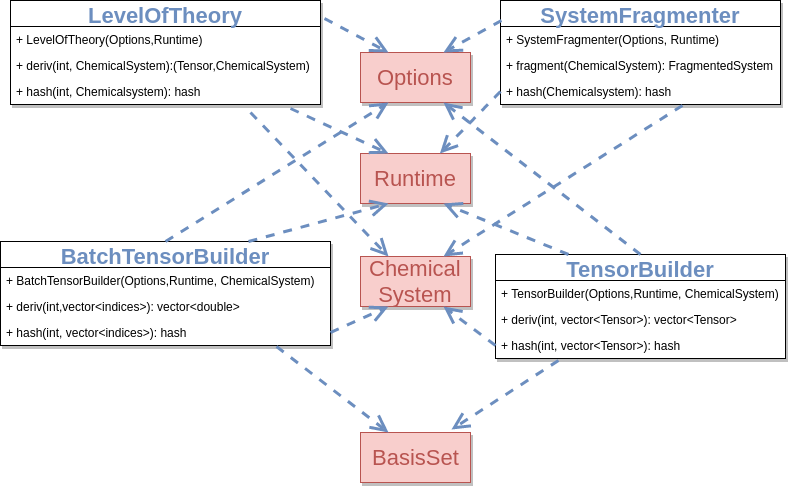
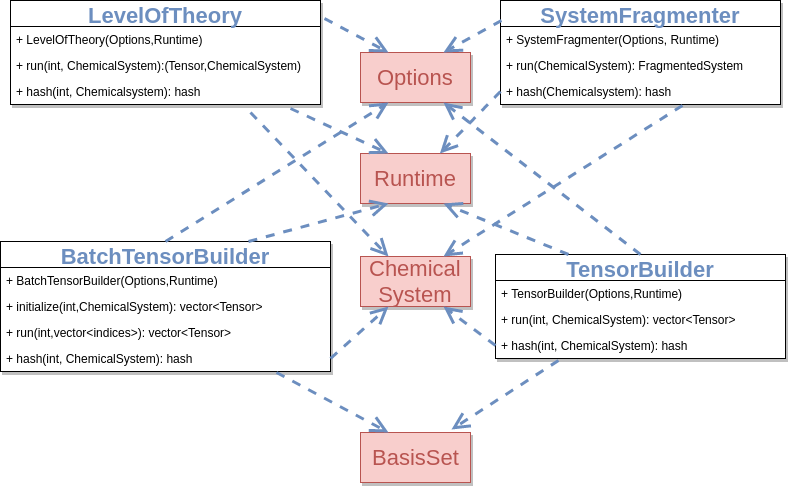
Slight tweaks to module APIs

diff --git a/dox/CodeStructure.md b/dox/CodeStructure.md
@@ -399,11 +399,11 @@ stolen from TensorFlow if we're being honest...).  The main summary points:
   - Likely to be a thin wrapper
 
 The final component of `Runtime` is `CalculationState`.  Of the three 
-components this is likely the least straightforward.  Its purpose is two-fold
+components this is likely the least straightforward.  Its purpose is two-fold:
 to decrease coupling among components and to serve as the mechanism for 
 logging the calculation's state.  Exactly how this all goes down is outlined 
-below in the section [XXX](#link-to-section); for now, we present a summary 
-of its features:
+on the [Program Flow](ProgramFlow.md) page; for now, we present a summary 
+of its features.
 
 - Contains a record of results
   - Map between conditions under which result was generated and said result
@@ -412,9 +412,9 @@ of its features:
   - Jumping off point for loading a previous calculation
   - Guts of what needs checkpointed
 - Contains the list of available modules
-  - Facilitates logging what version of a module was used *etc.*
+  - Collects information related to modules
   - Allows modules to remain uncoupled till runtime
-  - Mechanism for user generated modules
+  - Mechanism for user generated modules (just add them at runtime)
     - Rapid prototyping
     - Power-user access point
 - Contains list of user set (and defaulted) options
@@ -430,7 +430,7 @@ of its features:
     - Stored per module, not function (*i.e.* can have two SCF modules with 
       different options)
     - At moment using strings, but could be enums
-      - Strings allow new options to be added without updating enum
+      - Strings allow new options to be added without updating enum list
       - Enums less error prone
   - Arbitrary types (*i.e.* more than integers and/or doubles)
   
@@ -530,6 +530,9 @@ a function or class that would then compute its symmetry.  Determining the
 symmetry of a geometrical object is a general thing and should thus be 
 packaged in a reusable manner. 
 
+TODO: Density, occupations, MO coefs.  Wavefunction class thin wrapper over 
+Molecule (???)
+
 "The" Calculation Classes
 --------------------------
 
@@ -539,40 +542,50 @@ calculation.  Again, this is the area that we expect to constantly change,
 the bugs are fixed, is expected to ideally never change again).  
 Consequentially, the design goal here is to minimize the impact that 
 adding say a new algorithm or a new level of theory has on the overall 
-package.  Furthermore, in line with the mentioned use cases, we want to ensure
-levels of theory are compatible with one another (*i.e.* any of them can be 
-used for geometry optimizations or dynamics).  This requires they all 
-maintain the same API.  Tentatively we purpose this API to have two important
-features:
+package.  The goal is to consolidate the APIs of the various modules as much as
+possible.  To this end we note:
 
-1. Constructor taking the requested options, the runtime, and the system on 
-which to perform the computation
-2. The ability to return the derivative w.r.t. the nuclear coordinates as well
-as an updated system.
+1. Constructors have same signature (take options and runtime)
+2. For "generator"-like modules (modules expected to be called numerous times)
+   initialize function for setting up buffers (calling virtual functions in a
+   constructor is a bad idea, hence the reason for violating RAII)
+3. Member function for running the module has same name (`run`)
 
-Within a level of theory we conclude that the three main types of tasks to 
-perform are:
+As for what the module types are, at the moment they are a type for the level of
+theory and a type for each of the three main types of tasks to perform within a
+level of theory:
 
+- LevelOfTheory
+  - Returns the derivative of the energy w.r.t to nuclear coordinates
+  - Input derivative order and system
+  - If called multiple times, done to loop over multiple systems
 - SystemFragmenter
   - An algorithm for taking one system and splitting it into multiple systems
     - Algorithms can be as simple as user telling us which atom goes to which
       system
   - First call of QM/MM, SAPT, embedding methods, fragment based methods, *etc.*
   - No concept of derivative
+  - If called multiple times, done so to loop over systems
 - BatchTensorBuilder
-  - Returns a batch of a very large tensor
-    - Thinking coupled-cluser amplitudes, integrals, *etc.*
-  - Need derivatives w.r.t. nuclear positions
+  - Class for building things like coupled-cluster amplitudes, integrals, *etc.*
+  - Return is blocks from very large tensors
+    - Meaning of returned blocks is defined by derived class
+      - *e.g.* 1st block is alpha density, 2nd is beta
+      - Messy and error prone, use tags?
+  - Many repeated calls to get full tensor, *i.e.* needs `initialize` member
+  - Each `run` call returns blocks of derivatives (w.r.t. nuclear coordinates) 
     - Also need other derivatives, like w.r.t. MO coefs.  How to specify (?)
-      - Option(?)
+      - Separate builders(?)
   - Input is:
-     - Series of tensors (identity of which is implementation defined) 
+     - Derivative order
+     - System
      - Indices of the batch to compute
-  - Returns a series of subblocks (identity again being implementation defined)
 - TensorBuilder
   - Wraps an algorithm for building a full tensor
   - Similar API to `BatchTensorBuilder`, just without the index arguments
-  - Will need to compute derivatives w.r.t. nuclear positions
+  - If called multiple times it is to loop over systems
+
+
 
 Broadly speaking, the general idea is that these classes are stand-ins for a 
 somewhat sophisticated call-back mechanism to be implemented by the framework.
@@ -597,8 +610,8 @@ To summarize this section, the proposal is the following.  To add onto the
 
 It may be necessary to add other base types later.  In particular 
 `LevelOfTheory` will likely not cut it for dynamics, or PES scans (it ought to
-work for geometry optimizations and 99.9% of the thermochemistry applications
-though).
+work for geometry optimizations and 99.9% of the thermochemistry application
+though (wrapper could just process Hessian)).
 
 As a note to self, I know I also had a property calculator for computing 
 properties given a density.  Obviously needed for user-facing API, but I need to
